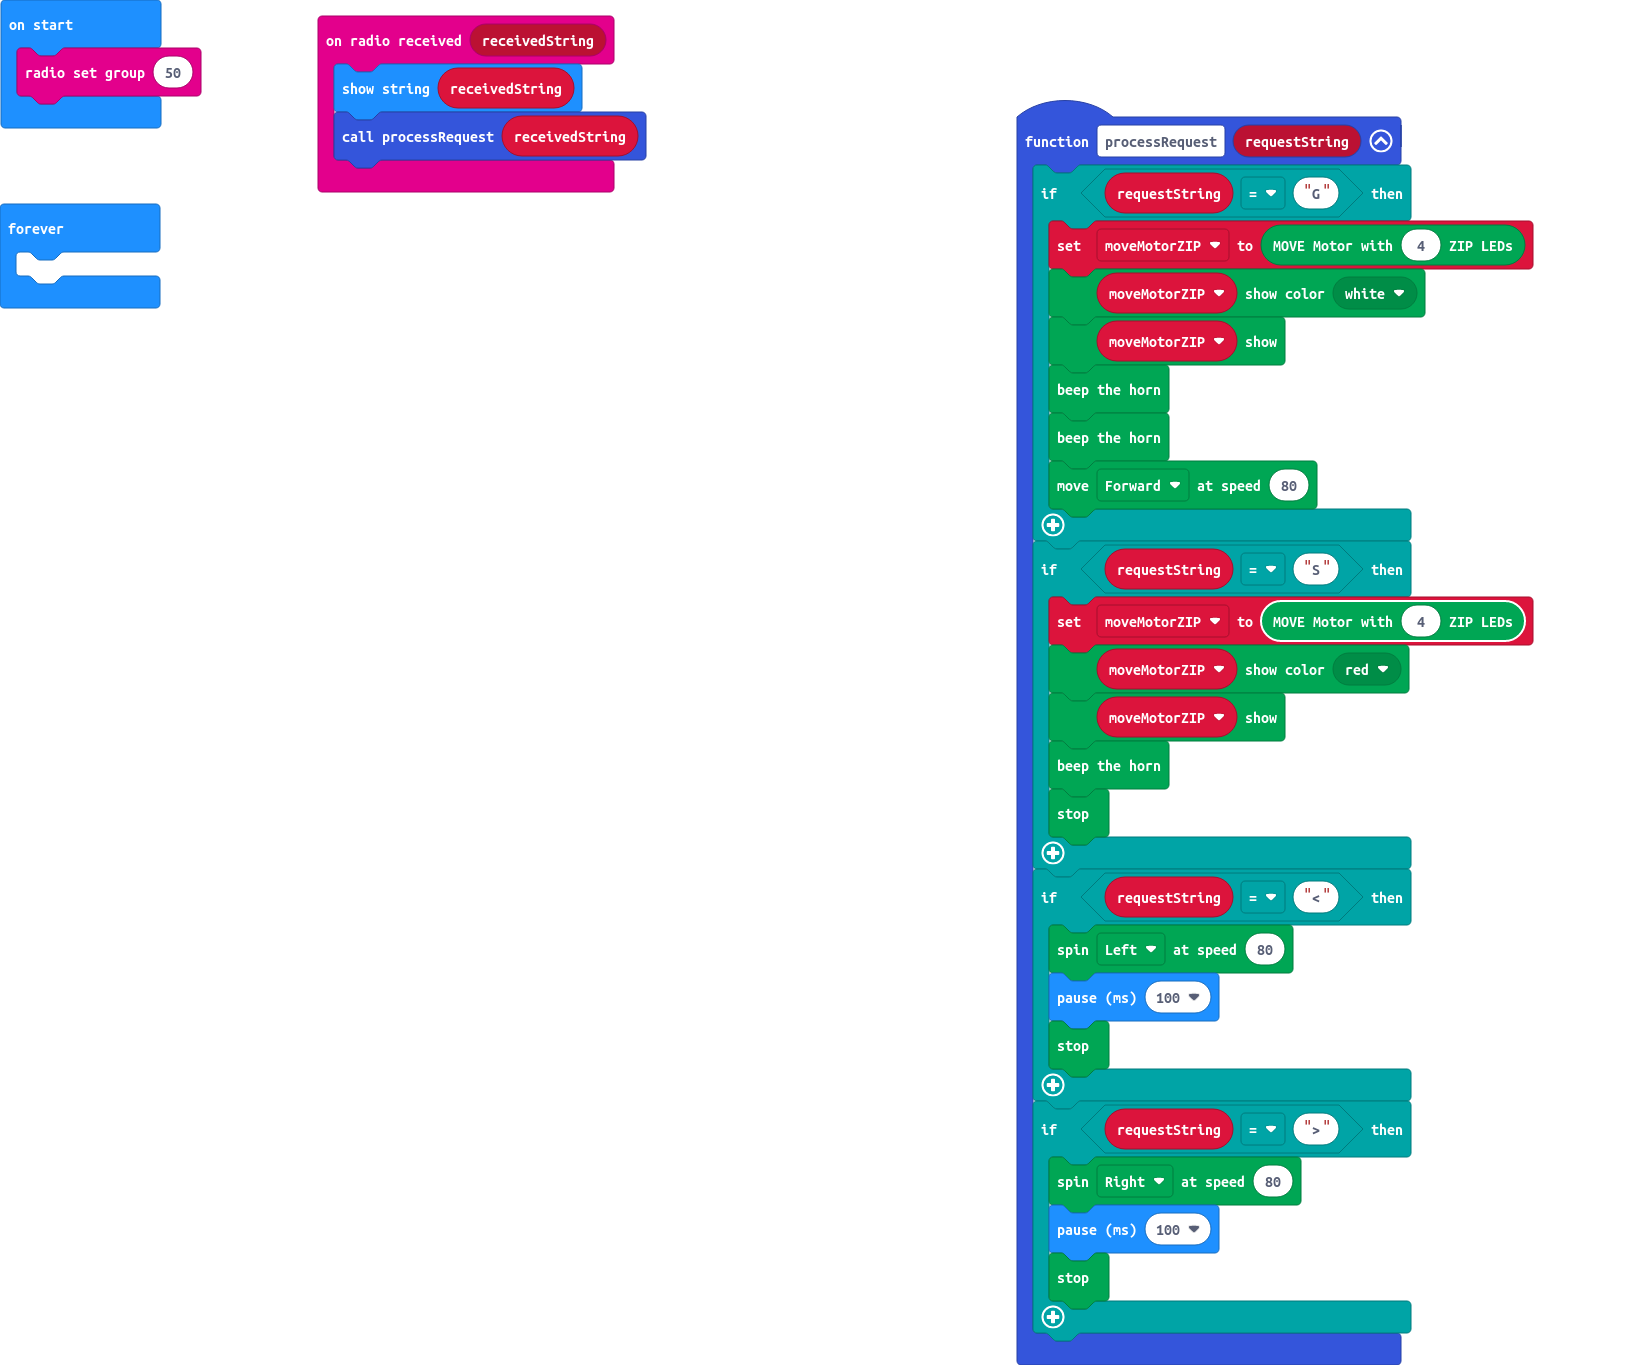
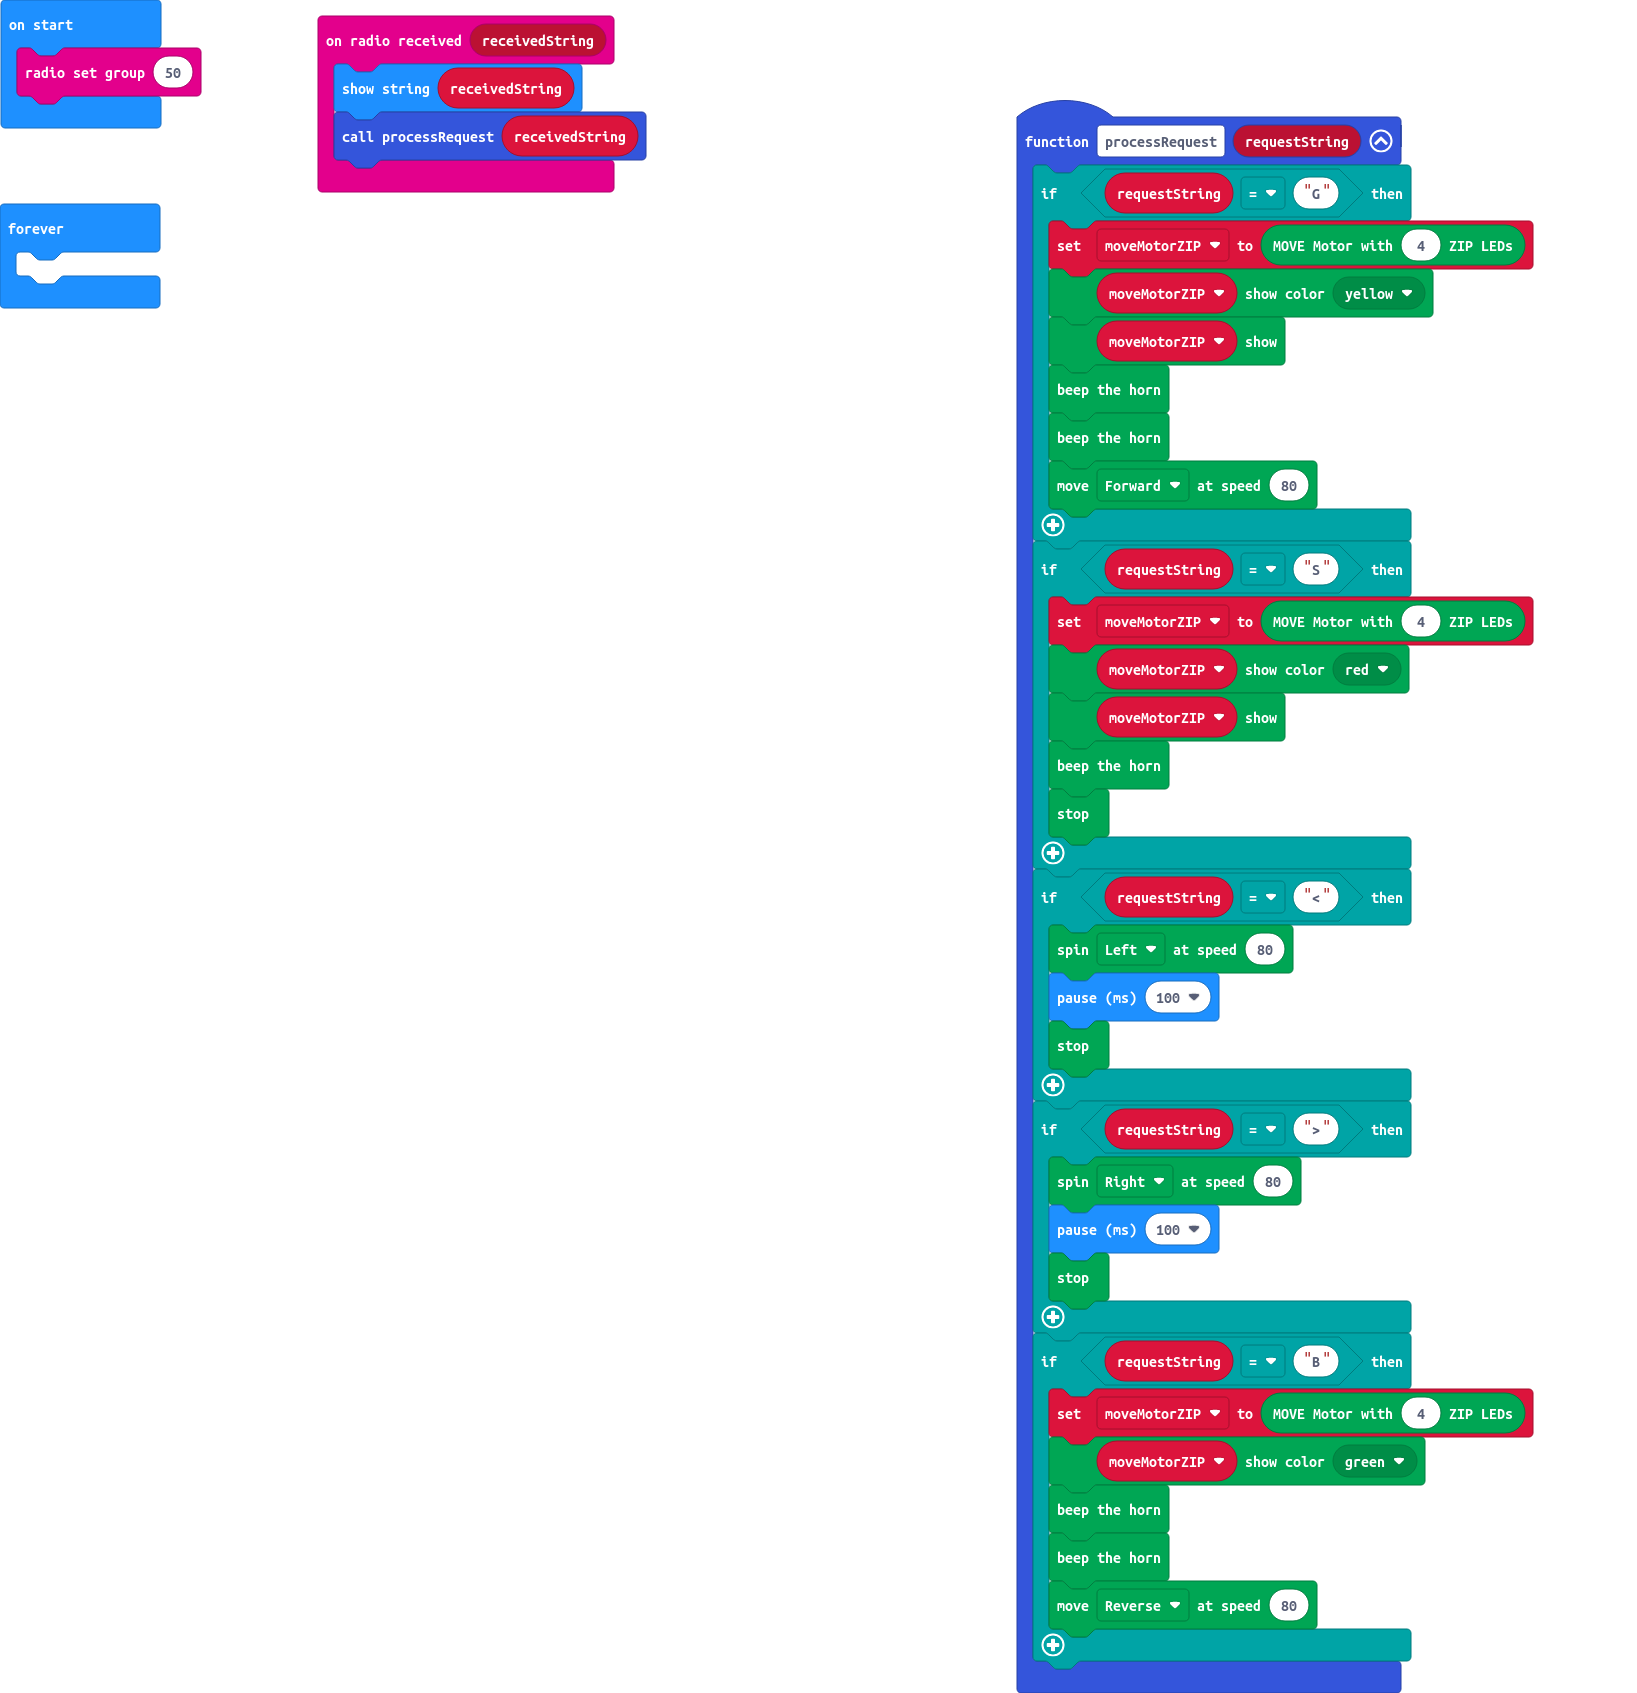
Updated to include reverse

Changed region(s): [[0.6231, 0.0615, 0.9346, 0.9846], [0.1869, 0.0, 0.405, 0.1538], [0.0, 0.0, 0.1246, 0.2462]]

diff --git a/main.ts b/main.ts
@@ -1,7 +1,7 @@
 function processRequest (requestString: string) {
     if (requestString == "G") {
         moveMotorZIP = Kitronik_Move_Motor.createMoveMotorZIPLED(4)
-        moveMotorZIP.showColor(Kitronik_Move_Motor.colors(Kitronik_Move_Motor.ZipLedColors.White))
+        moveMotorZIP.showColor(Kitronik_Move_Motor.colors(Kitronik_Move_Motor.ZipLedColors.Yellow))
         moveMotorZIP.show()
         Kitronik_Move_Motor.beepHorn()
         Kitronik_Move_Motor.beepHorn()
@@ -23,6 +23,13 @@ function processRequest (requestString: string) {
         Kitronik_Move_Motor.spin(Kitronik_Move_Motor.SpinDirections.Right, 80)
         basic.pause(100)
         Kitronik_Move_Motor.stop()
+    }
+    if (requestString == "B") {
+        moveMotorZIP = Kitronik_Move_Motor.createMoveMotorZIPLED(4)
+        moveMotorZIP.showColor(Kitronik_Move_Motor.colors(Kitronik_Move_Motor.ZipLedColors.Green))
+        Kitronik_Move_Motor.beepHorn()
+        Kitronik_Move_Motor.beepHorn()
+        Kitronik_Move_Motor.move(Kitronik_Move_Motor.DriveDirections.Reverse, 80)
     }
 }
 radio.onReceivedString(function (receivedString) {
